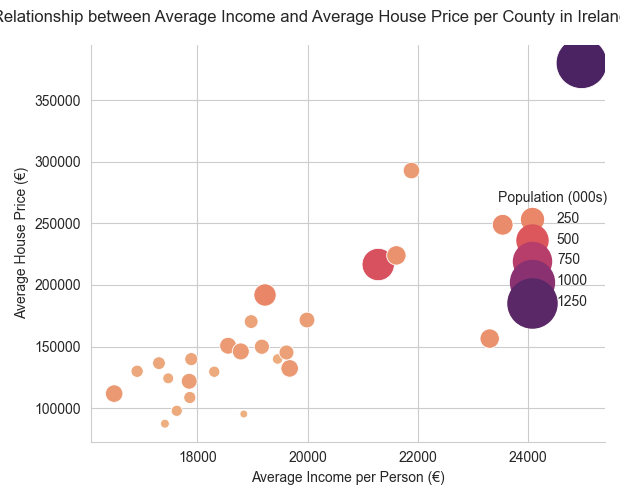
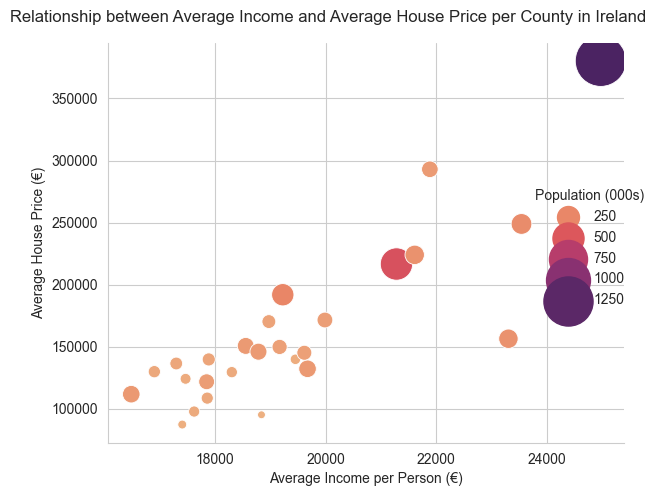
Thirteenth commit

diff --git a/main.py b/main.py
@@ -207,7 +207,7 @@ g.fig.suptitle('Relationship between Average Income and Average House Price per 
 
 plt.tight_layout()
 
-g.fig.savefig('Scatterplot of average income vs house price by county.png')
+g.fig.savefig('Scatterplot of average income vs house price by county.png', bbox_inches='tight')
 
 #box plot showing the distribution of prices in Dublin vs outside Dublin
 five_yrs = df2[df2['Year'] >= 2014]
@@ -223,7 +223,7 @@ plt.xticks([0,1], ['Outside Dublin', 'Dublin'])
 
 plt.tight_layout()
 
-g.fig.savefig('Box plot of distribution of prices in Dublin vs outside Dublin.png')
+g.fig.savefig('Box plot of distribution of prices in Dublin vs outside Dublin.png',bbox_inches='tight')
 
 #count plot showing number of houses sold in Dublin vs outside Dublin
 g = sns.catplot(x='Dublin_Flag', data=five_yrs, kind='count')
@@ -234,7 +234,7 @@ plt.xticks([0,1], ['Outside Dublin', 'Dublin'])
 
 plt.tight_layout()
 
-g.fig.savefig('Count plot of number of houses sold in Dublin vs outside Dublin.png')
+g.fig.savefig('Count plot of number of houses sold in Dublin vs outside Dublin.png',bbox_inches='tight')
 
 
 
